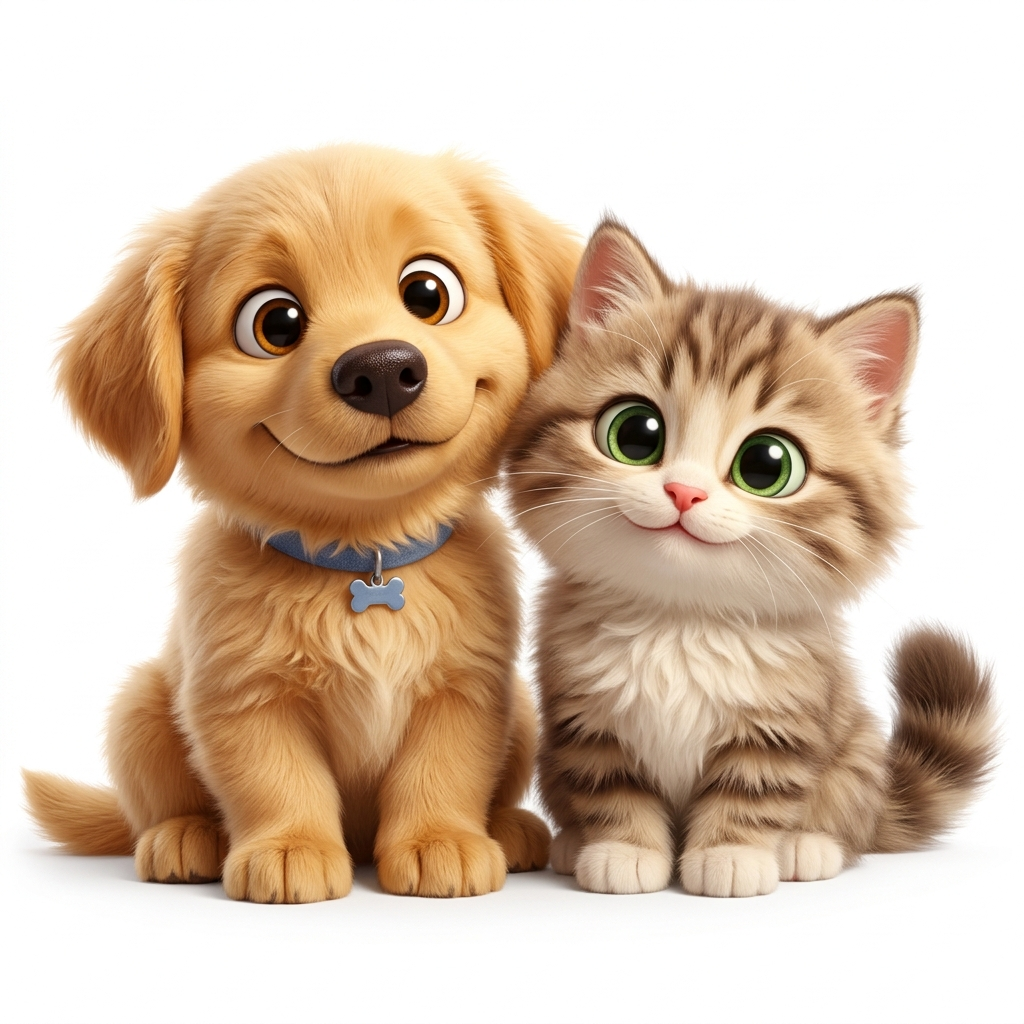
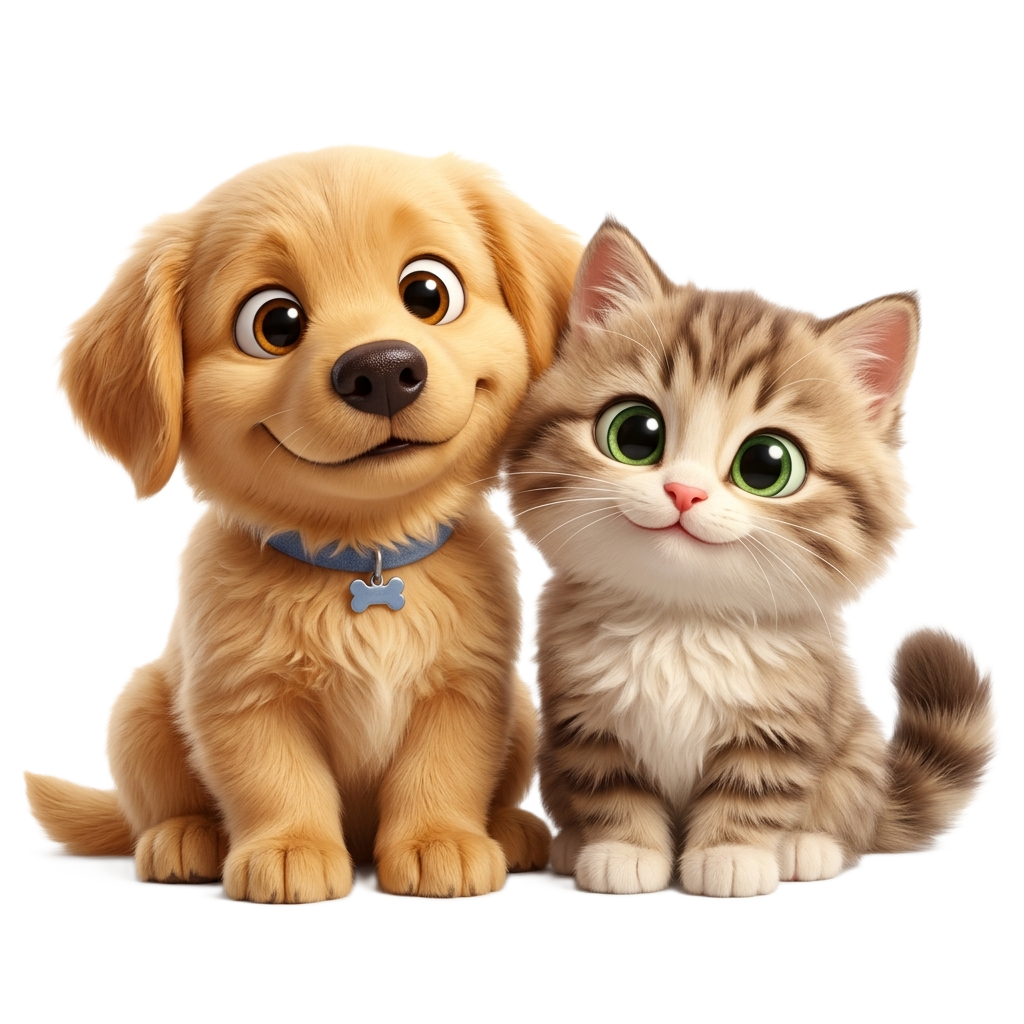
feat: add SpeciesGrid component and mascot asset for home page

diff --git a/src/components/home/SpeciesGrid.tsx b/src/components/home/SpeciesGrid.tsx
@@ -33,14 +33,11 @@ export default function SpeciesGrid() {
               <div>
                 {/* 3D Mascot Avatar */}
                 <div className="mb-4">
-                  <div className="relative w-16 h-16 flex items-center justify-center">
-                    {/* Emerald blob — gives mix-blend-mode: multiply a surface to work against */}
-                    <div className="absolute inset-0 rounded-2xl bg-gradient-to-br from-emerald-100 to-green-200/70" />
+                  <div className="w-16 h-16 rounded-full overflow-hidden bg-emerald-50 border border-emerald-100 shadow-xs group-hover:scale-105 transition-transform">
                     <img
                       src={spec.mascotImage}
                       alt={`${spec.name} 3D Mascot`}
-                      className="relative w-full h-full object-contain group-hover:scale-105 transition-transform"
-                      style={{ mixBlendMode: 'multiply' }}
+                      className="w-full h-full object-cover object-top"
                       loading="lazy"
                     />
                   </div>
